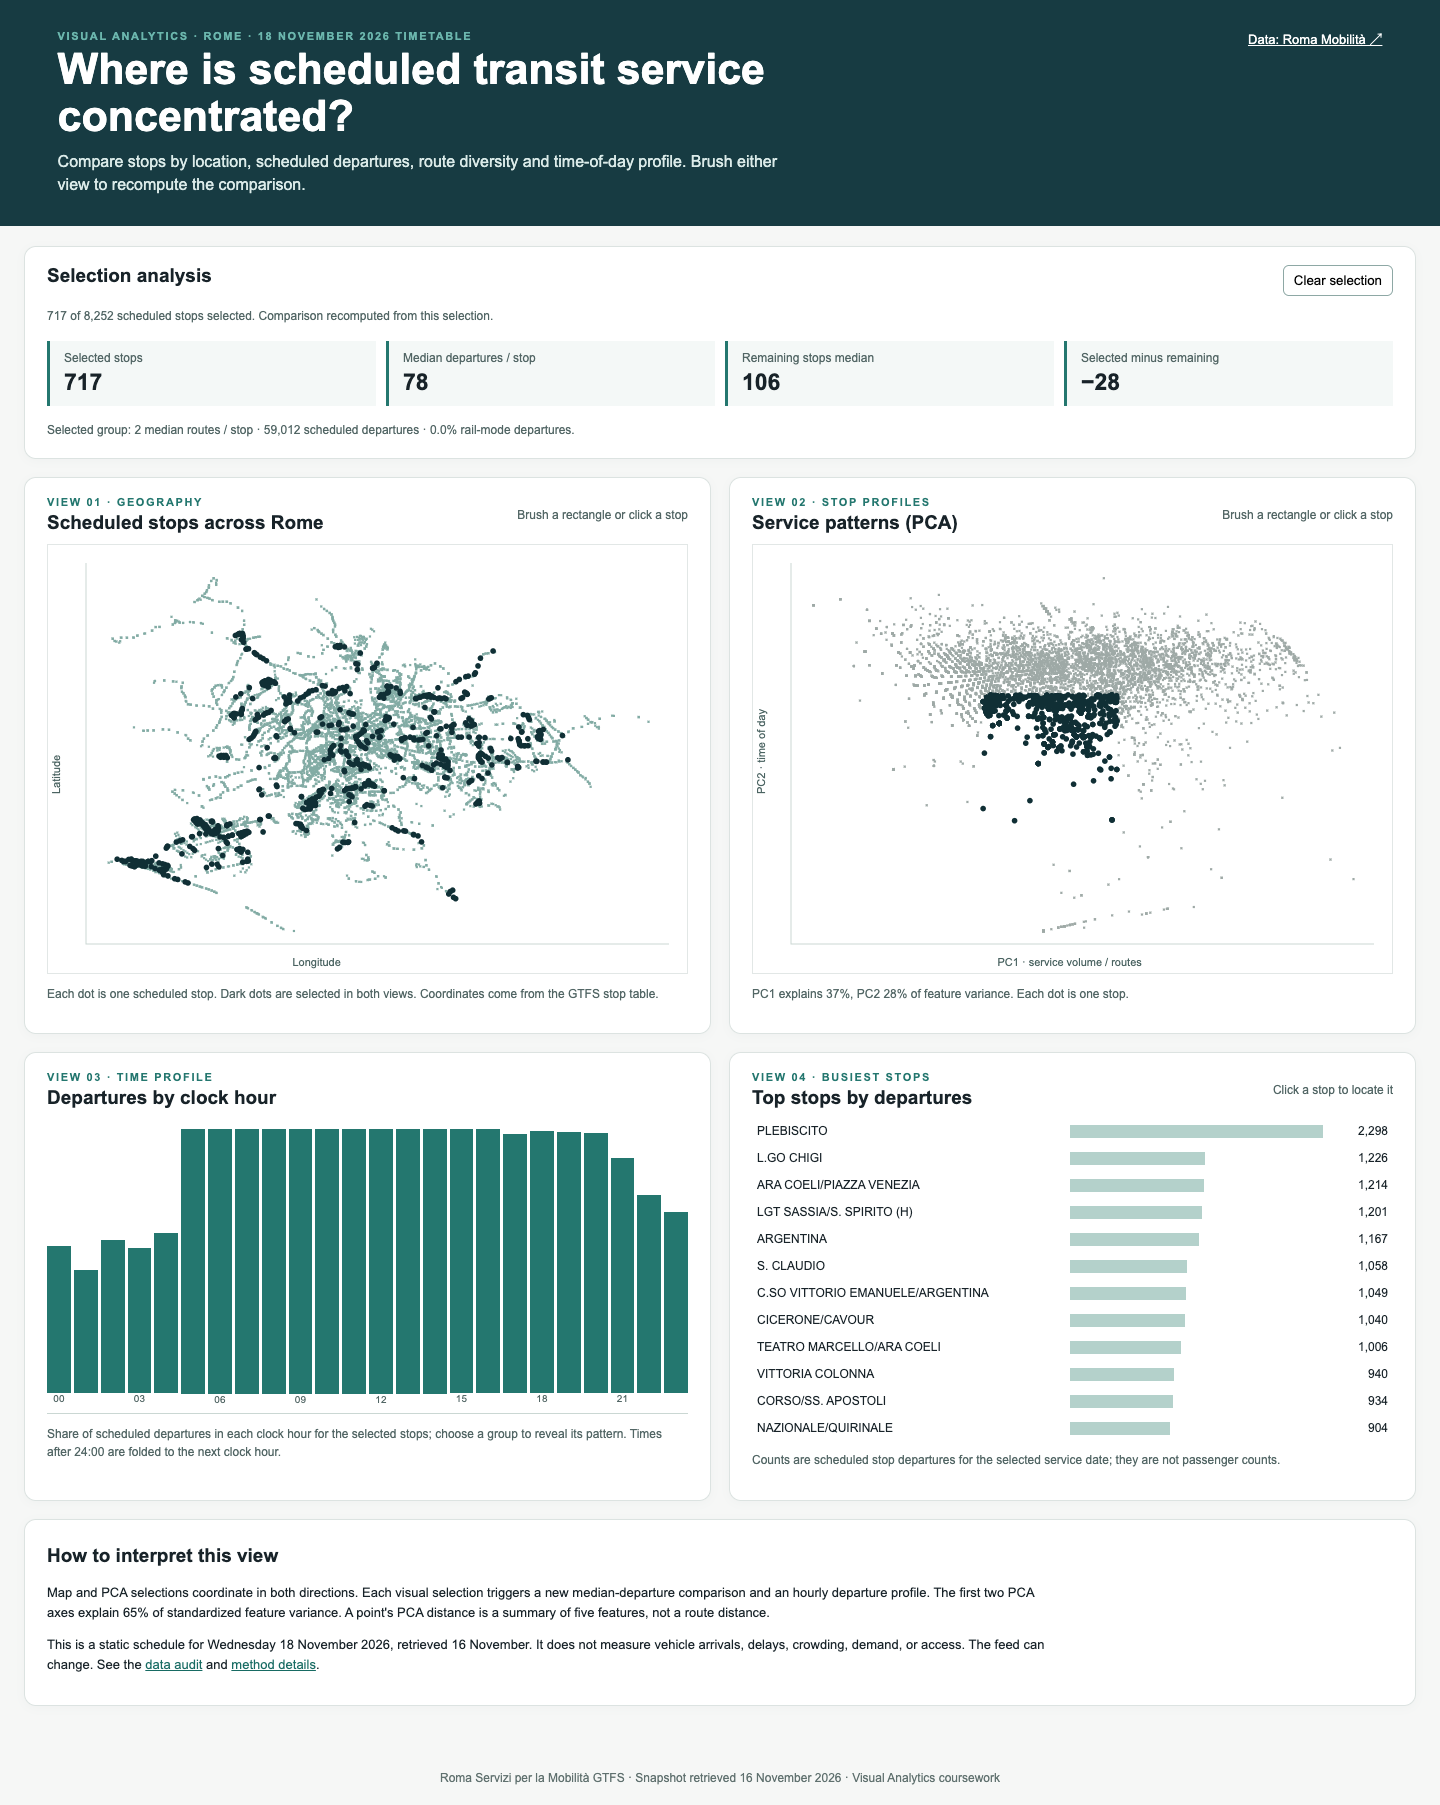
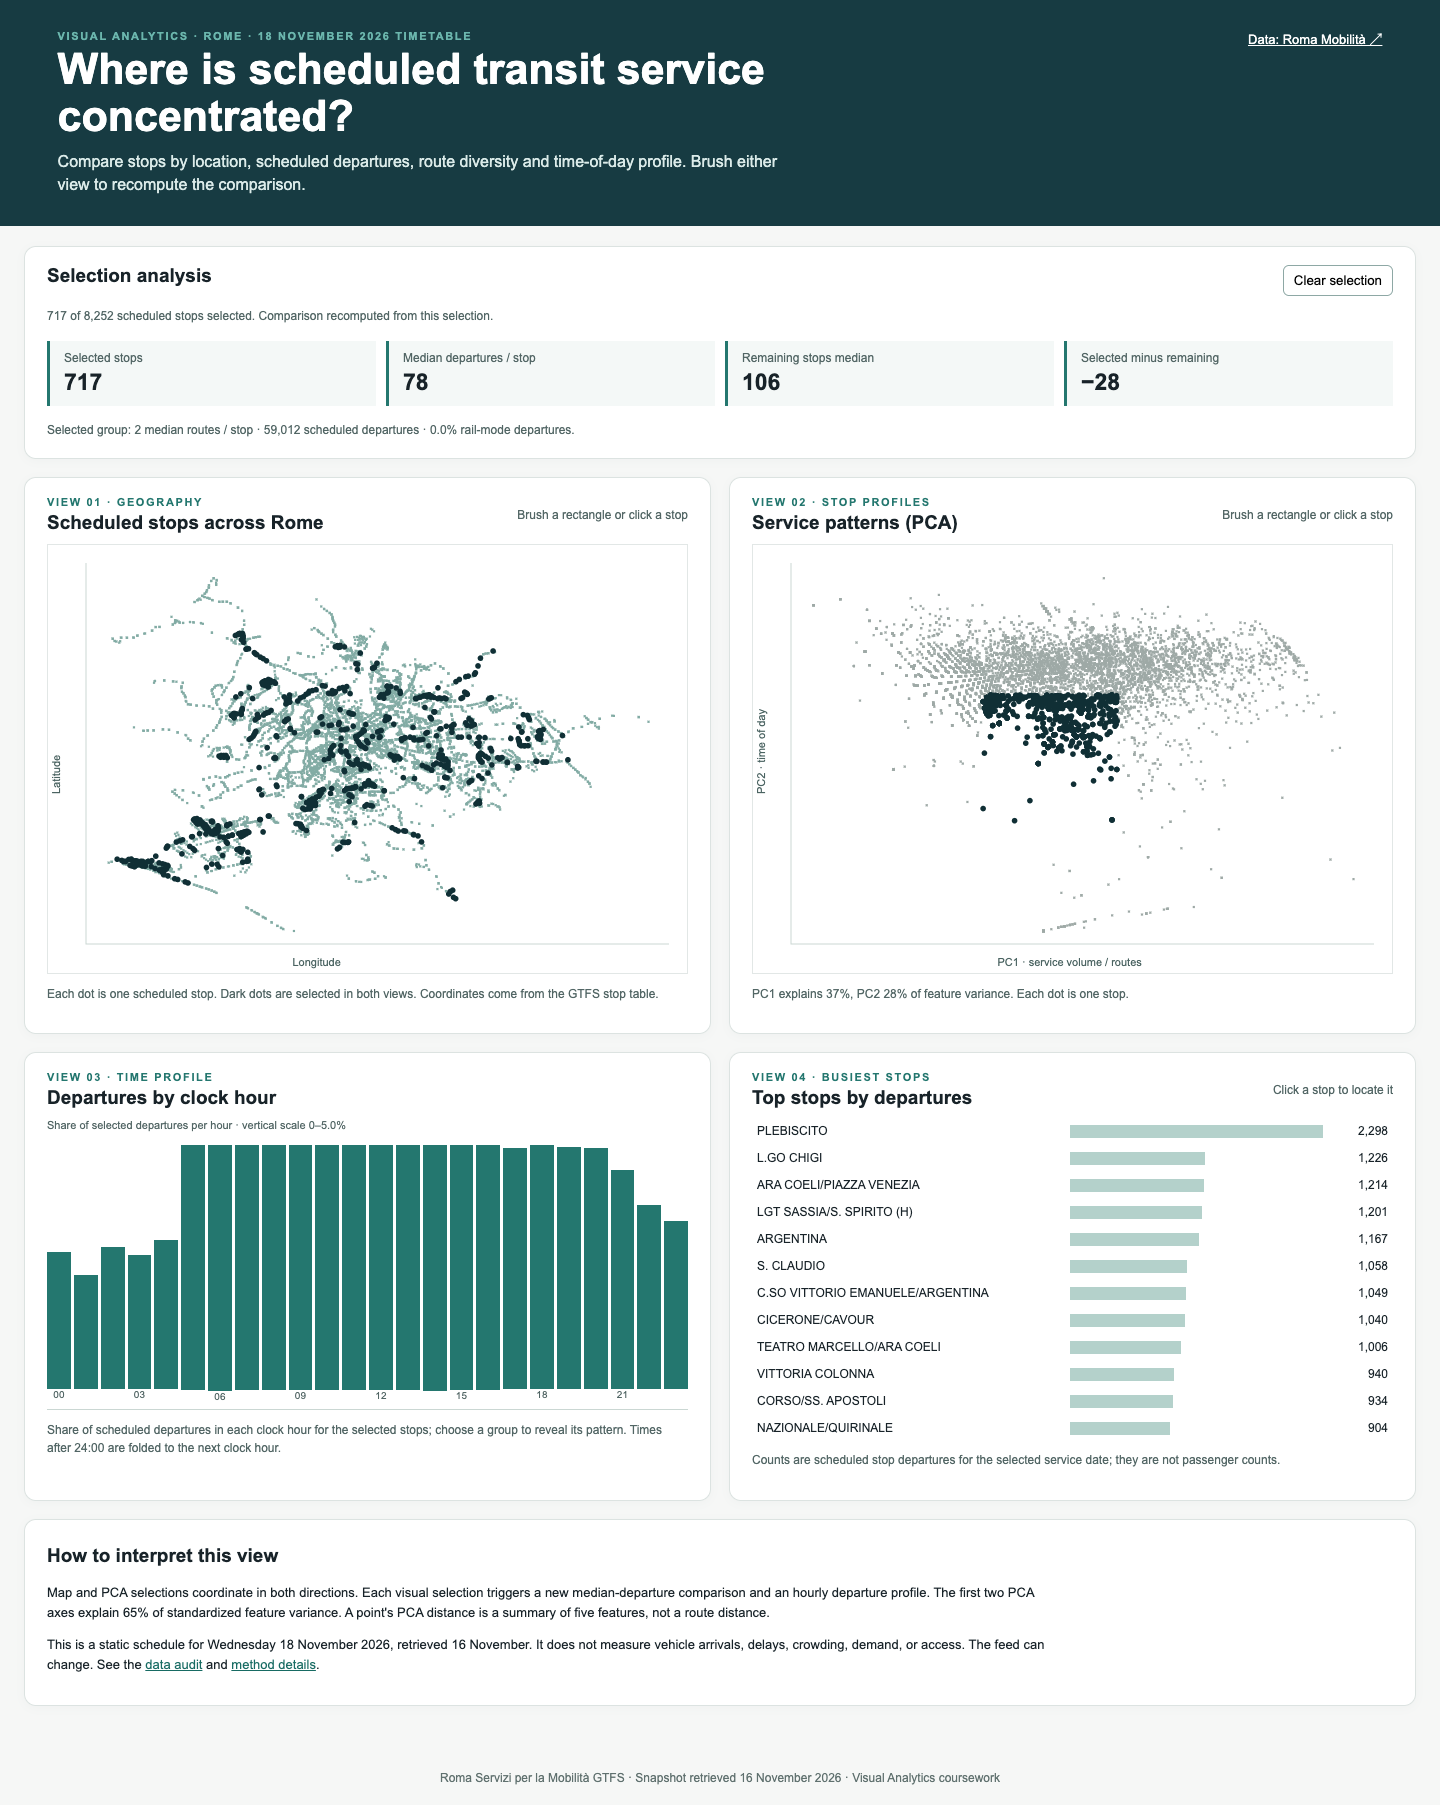
Clarify analysis path and chart scale

diff --git a/web/style.css b/web/style.css
@@ -1,1 +1,1 @@
-:root{font-family:Inter,Arial,sans-serif;color:#182329;background:#f6f7f6}*{box-sizing:border-box}body{margin:0}header{background:#173b42;color:white;padding:30px max(4vw,24px);display:flex;justify-content:space-between;gap:24px;align-items:start}h1{font-size:clamp(28px,3vw,43px);line-height:1.1;max-width:800px;margin:4px 0 9px}h2{font-size:19px;margin:4px 0 10px}.eyebrow{font-size:11px;font-weight:700;letter-spacing:.15em;text-transform:uppercase;margin:0;color:#6bb6ad}header a{color:white;white-space:nowrap;font-size:13px}.intro{max-width:730px;line-height:1.45;margin:0;color:#dbebe9}main{max-width:1550px;margin:auto;padding:20px 24px 45px}.summary,.panel,.method{background:white;border:1px solid #dce3e1;border-radius:12px;padding:18px 22px;box-shadow:0 2px 10px #173b4208}.summary-title,.panel-head{display:flex;align-items:start;justify-content:space-between;gap:12px}.summary-title h2{margin:0}.summary-title button{border:1px solid #8ea8a5;background:white;border-radius:6px;padding:7px 10px;cursor:pointer}.stats{display:grid;grid-template-columns:repeat(4,1fr);gap:10px;margin:16px 0}.stats>div{border-left:3px solid #24776f;background:#f4f8f7;padding:10px 14px}.stats span{font-size:12px;color:#526665;display:block}.stats strong{font-size:23px;display:block;margin-top:4px}.mix,.note,#status{font-size:12px;color:#526665;line-height:1.45}.mix{margin:0}.views{display:grid;grid-template-columns:1fr 1fr;gap:18px;margin-top:18px}.panel-head>p{font-size:12px;color:#526665;text-align:right}.panel .eyebrow{color:#24776f}.plot{position:relative;height:430px;width:100%;border:1px solid #e2e7e6;background:#fff;touch-action:none}.plot canvas{width:100%;height:100%;display:block;cursor:crosshair}.brush{position:absolute;border:1px solid #173b42;background:#173b4220;display:none;pointer-events:none}.lower-views{align-items:stretch}.districts{display:grid;grid-template-columns:1fr;gap:3px}.district{display:grid;grid-template-columns:minmax(130px,1.2fr) 1fr 55px;gap:10px;align-items:center;border:0;background:transparent;text-align:left;padding:5px;cursor:pointer;color:#182329}.district:hover,.district.active{background:#edf4f2}.district .name{font-size:12px;overflow:hidden;text-overflow:ellipsis;white-space:nowrap}.district .bar{height:13px;background:#b4d1cb;display:block}.district.active .bar{background:#173b42}.district .value{font-size:12px;text-align:right}.hour-chart{height:295px;display:grid;grid-template-columns:repeat(24,1fr);gap:3px;align-items:end;border-bottom:1px solid #cad7d3;padding:10px 0 0}.hour-col{height:100%;display:flex;flex-direction:column;justify-content:flex-end;align-items:center;min-width:0}.hour-bar{background:#24776f;width:100%;min-height:0}.hour-col span{height:20px;font-size:10px;color:#526665}.method{margin-top:18px;line-height:1.5;font-size:13px}.method p{max-width:1000px}.method a{color:#176b63}footer{padding:20px 24px;text-align:center;color:#60716f;font-size:12px}@media(max-width:950px){.views{grid-template-columns:1fr}.stats{grid-template-columns:repeat(2,1fr)}}@media(max-width:620px){header{display:block}header a{display:block;margin-top:15px}.stats{grid-template-columns:1fr}.district{grid-template-columns:150px 1fr 45px}.panel-head>p{display:none}.plot{height:330px}}
+:root{font-family:Inter,Arial,sans-serif;color:#182329;background:#f6f7f6}*{box-sizing:border-box}body{margin:0}header{background:#173b42;color:white;padding:30px max(4vw,24px);display:flex;justify-content:space-between;gap:24px;align-items:start}h1{font-size:clamp(28px,3vw,43px);line-height:1.1;max-width:800px;margin:4px 0 9px}h2{font-size:19px;margin:4px 0 10px}.eyebrow{font-size:11px;font-weight:700;letter-spacing:.15em;text-transform:uppercase;margin:0;color:#6bb6ad}header a{color:white;white-space:nowrap;font-size:13px}.intro{max-width:730px;line-height:1.45;margin:0;color:#dbebe9}main{max-width:1550px;margin:auto;padding:20px 24px 45px}.summary,.panel,.method{background:white;border:1px solid #dce3e1;border-radius:12px;padding:18px 22px;box-shadow:0 2px 10px #173b4208}.summary-title,.panel-head{display:flex;align-items:start;justify-content:space-between;gap:12px}.summary-title h2{margin:0}.summary-title button{border:1px solid #8ea8a5;background:white;border-radius:6px;padding:7px 10px;cursor:pointer}.stats{display:grid;grid-template-columns:repeat(4,1fr);gap:10px;margin:16px 0}.stats>div{border-left:3px solid #24776f;background:#f4f8f7;padding:10px 14px}.stats span{font-size:12px;color:#526665;display:block}.stats strong{font-size:23px;display:block;margin-top:4px}.mix,.note,#status{font-size:12px;color:#526665;line-height:1.45}.mix{margin:0}.views{display:grid;grid-template-columns:1fr 1fr;gap:18px;margin-top:18px}.panel-head>p{font-size:12px;color:#526665;text-align:right}.panel .eyebrow{color:#24776f}.plot{position:relative;height:430px;width:100%;border:1px solid #e2e7e6;background:#fff;touch-action:none}.plot canvas{width:100%;height:100%;display:block;cursor:crosshair}.brush{position:absolute;border:1px solid #173b42;background:#173b4220;display:none;pointer-events:none}.lower-views{align-items:stretch}.districts{display:grid;grid-template-columns:1fr;gap:3px}.district{display:grid;grid-template-columns:minmax(130px,1.2fr) 1fr 55px;gap:10px;align-items:center;border:0;background:transparent;text-align:left;padding:5px;cursor:pointer;color:#182329}.district:hover,.district.active{background:#edf4f2}.district .name{font-size:12px;overflow:hidden;text-overflow:ellipsis;white-space:nowrap}.district .bar{height:13px;background:#b4d1cb;display:block}.district.active .bar{background:#173b42}.district .value{font-size:12px;text-align:right}.scale-note{font-size:11px;color:#526665;margin:0 0 4px}.hour-chart{height:275px;display:grid;grid-template-columns:repeat(24,1fr);gap:3px;align-items:end;border-bottom:1px solid #cad7d3;padding:10px 0 0}.hour-col{height:100%;display:flex;flex-direction:column;justify-content:flex-end;align-items:center;min-width:0}.hour-bar{background:#24776f;width:100%;min-height:0}.hour-col span{height:20px;font-size:10px;color:#526665}.method{margin-top:18px;line-height:1.5;font-size:13px}.method p{max-width:1000px}.method a{color:#176b63}footer{padding:20px 24px;text-align:center;color:#60716f;font-size:12px}@media(max-width:950px){.views{grid-template-columns:1fr}.stats{grid-template-columns:repeat(2,1fr)}}@media(max-width:620px){header{display:block}header a{display:block;margin-top:15px}.stats{grid-template-columns:1fr}.district{grid-template-columns:150px 1fr 45px}.panel-head>p{display:none}.plot{height:330px}}

diff --git a/web/index.html b/web/index.html
@@ -36,6 +36,7 @@
     </div>
     <div class="views lower-views">
       <section class="panel"><div class="panel-head"><div><p class="eyebrow">VIEW 03 · TIME PROFILE</p><h2>Departures by clock hour</h2></div></div>
+        <p id="hour-scale" class="scale-note">Select stops to show the share scale.</p>
         <div id="hours" class="hour-chart" aria-label="Hourly scheduled departures for selected stops"></div>
         <p class="note">Share of scheduled departures in each clock hour for the selected stops; choose a group to reveal its pattern. Times after 24:00 are folded to the next clock hour.</p>
       </section>

diff --git a/web/app.js b/web/app.js
@@ -50,6 +50,7 @@ function renderHours(chosen) {
   const totals=Array(24).fill(0);
   for (const row of chosen) row.h.forEach((v,h)=>totals[h]+=v);
   const sum=totals.reduce((a,b)=>a+b,0),max=Math.max(...totals,1);
+  $('hour-scale').textContent=sum?`Share of selected departures per hour · vertical scale 0–${(100*max/sum).toFixed(1)}%`:'Select stops to show the share scale.';
   totals.forEach((v,h)=>{
     const column=document.createElement('div');column.className='hour-col';
     const bar=document.createElement('div');bar.className='hour-bar';

diff --git a/docs/02-abstraction.md b/docs/02-abstraction.md
@@ -18,6 +18,17 @@ One row in the application is one GTFS `stop_id` active on **18 November 2026**.
 
 The system supports **locate, select, compare, summarize and characterize** tasks. The geographic view supports location selection; PCA supports profile selection. Both selections cause a fresh group-versus-rest median and time-profile computation. This is a user-driven analytical calculation, not merely a visibility filter.
 
+## Ordered analysis path
+
+| Step | Input available to the analyst | Task | Result |
+| --- | --- | --- | --- |
+| 1 | Mapped active stops and named busiest-stop list | Locate a region or named stop of interest | A geographic candidate group |
+| 2 | Map brush and linked PCA highlights | Compare the group's profile positions | Evidence of whether service patterns are similar or mixed |
+| 3 | Selected-versus-remaining medians, route context and hourly bars | Characterize the difference | A quantified departure contrast and time profile |
+| 4 | PCA brush and reverse map highlight | Find where an unusual profile occurs | A spatial distribution for follow-up route analysis |
+
+A planner or researcher performs all four steps. For example, brushing a low-PC1 region yields lower typical scheduled departure counts and then reveals where those stops lie; the system does not equate this with poor access because demand and connectivity are absent.
+
 ## Data quality and scope
 
 The snapshot has 8,325 stops with valid bounded coordinates; 8,252 receive at least one scheduled departure on the selected date. It includes 38,558 active trips and 1,153,216 qualifying stop-time departures. Stop IDs, not physical station complexes, define the units. Platforms or nearby poles may therefore count separately. The app does not infer trips per person or travel-time accessibility.

diff --git a/docs/03-design.md b/docs/03-design.md
@@ -14,6 +14,8 @@ Unselected points use muted tones and selected points use dark ink in both plots
 
 The user brushes a map region, sees its stops in PCA and reads the recomputed summary. Brushing a PCA region reverses the path, revealing geography. A point click supports named-stop inspection. Clear resets the selection. The shared `stop_id` index set is the sole selection state so views cannot disagree.
 
+This implements Sacha et al.'s **data selection and emphasis** scenario for interaction with dimensionality reduction: the PCA coordinates are computed once, while selections made in either view emphasize the same records in the other. The [prototype capture](../prototype.png) is the current design mockup and the [paired-view figure](../report/coordinated_views.png) shows one PCA selection.
+
 ## Alternatives rejected
 
 - A choropleth would require area aggregation and hide individual stops, including adjacent stops with different service.

diff --git a/README.md b/README.md
@@ -3,6 +3,8 @@
 **Student:** Hamza Abdul Kader · solo project · [GitHub account](https://github.com/hamzaabedlkadr-b)  
 **Course status:** Local working project. Group registration, course-assigned repository and proposal approval are still pending. The official source is a dynamic timetable; this repository keeps the specific 16 November 2026 download so results can be reproduced.
 
+**Expected exam session:** First available session; update this line when the date is announced.
+
 ## Run the dashboard
 
 From this folder:
